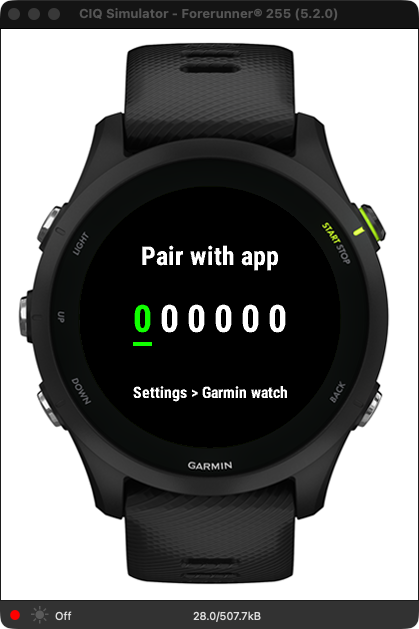
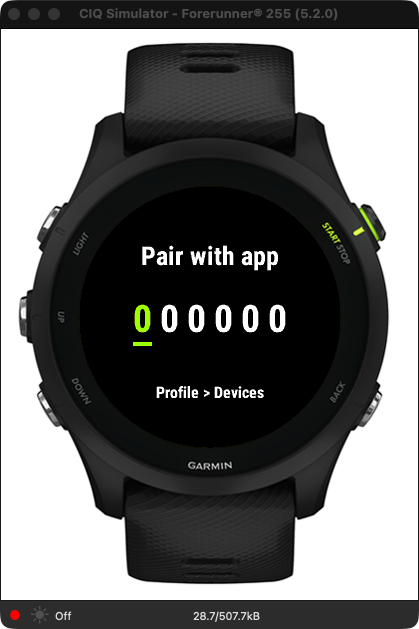
feat(garmin): Connect IQ Store package 1.0.0 with minimal permissions
- manifest: explicit app version 1.0.0 (first Store submission, own
  version line independent of the phone app SemVer)
- manifest: drop Sensor and UserProfile. The watch code never imports
  Toybox.Sensor or Toybox.UserProfile, so both listing justifications were
  untrue (App Review Guidelines 3c data minimisation, 4a accurate listing).
  Heart rate in the FIT comes from the native ActivityRecording session
  (Fit permission); confirm on the physical epix2 run (G-checklist)
- pairing hint pointed at "Settings > Garmin watch", which no longer
  exists in the phone app; now "Profile > Devices" / "Profil > Urzadzenia"
  (code lives in Profile > Devices & connections)
- listings PL/EN: requirements (PRO, phone app, Garmin Connect bridge),
  payment and refund disclosure, real permission list, data sent/not sent,
  support URL; screenshots refreshed with the new hint
- artifact.json: signed export 27/27 binaries, 16 device ids,
  sha e4722ac2, bound to a content digest of every build input
- contract test: manifest version == artifact, every permission maps to a
  used Toybox module, listings justify exactly the manifest permissions,
  pairing hint matches phone i18n labels

Backend contract since the 2026-08-19 artifact (vacation rest day, ramp
targets, bodyweight_loaded, distance sets) needs no watch change: rest
payload was already handled, targets arrive in s[] which the watch reads,
the t label is ignored, k stays weight_reps for bodyweight_loaded.

Changed region(s): [[0.3103, 0.6041, 0.6826, 0.6343], [0.3103, 0.4833, 0.3723, 0.5739], [0.4964, 0.9666, 0.6205, 0.9968]]

diff --git a/src/test/garmin-release-contract.test.ts b/src/test/garmin-release-contract.test.ts
@@ -1,0 +1,64 @@
+import { readFileSync } from 'node:fs';
+import { describe, expect, it } from 'vitest';
+
+// Connect IQ Store: uprawnienia z manifestu, uzasadnienia w listingu i wersja
+// paczki .iq muszą mówić to samo (App Review Guidelines 3c/4a: minimalizacja
+// danych i dokładny opis). Uprawnienie bez użycia modułu w kodzie = fałszywe
+// uzasadnienie w Store.
+const read = (path: string): string => readFileSync(path, 'utf8');
+const manifest = read('garmin/manifest.xml');
+const permissions = [...manifest.matchAll(/<iq:uses-permission id="([A-Za-z]+)"\/>/g)].map((m) => m[1]);
+const appVersion = manifest.match(/<iq:application[^>]*\sversion="(\d+\.\d+\.\d+)"/)?.[1];
+const monkeyC = ['Api', 'AppSettings', 'Brand', 'DayView', 'EventQueue', 'ExerciseView', 'PairView',
+  'SessionRecorder', 'SessionView', 'StrengthSaveApp', 'WorkoutState']
+  .map((name) => read(`garmin/source/${name}.mc`))
+  .join('\n');
+
+// Moduły Toybox objęte uprawnieniem (docs SDK 9.2.0, Manifest_and_Permissions).
+const MODULE_BY_PERMISSION: Record<string, RegExp> = {
+  Communications: /Toybox\.Communications|Communications\.makeWebRequest/,
+  Fit: /Toybox\.ActivityRecording|Toybox\.FitContributor/,
+  Sensor: /Toybox\.Sensor\b|Sensor\.setEnabledSensors|Sensor\.enableSensorEvents/,
+  UserProfile: /Toybox\.UserProfile|UserProfile\.getProfile/,
+};
+
+describe('Garmin Connect IQ release contract', () => {
+  it('declares an explicit SemVer app version that matches the recorded artifact', () => {
+    expect(appVersion).toMatch(/^\d+\.\d+\.\d+$/);
+    const artifact = JSON.parse(read('garmin/release/artifact.json')) as { appVersion?: string };
+    expect(artifact.appVersion).toBe(appVersion);
+  });
+
+  it('requests only permissions whose Toybox module the watch code actually uses', () => {
+    expect(permissions.length).toBeGreaterThan(0);
+    for (const permission of permissions) {
+      expect(MODULE_BY_PERMISSION[permission], `unknown permission ${permission}`).toBeDefined();
+      expect(monkeyC, `${permission} declared but unused`).toMatch(MODULE_BY_PERMISSION[permission]);
+    }
+  });
+
+  it('points the pairing screen at the real phone location of the pairing code', () => {
+    // Kod parowania żyje w Profil > Urządzenia i połączenia (Profile.tsx, sekcja devices).
+    // Recenzent Store zaczyna od tego ekranu, więc stara ścieżka "Ustawienia" = ślepy zaułek.
+    for (const [strings, locale] of [
+      ['garmin/resources/strings/strings.xml', 'src/i18n/locales/en.ts'],
+      ['garmin/resources-pol/strings/strings.xml', 'src/i18n/locales/pl.ts'],
+    ]) {
+      const hint = read(strings).match(/<string id="PairHint">([^<]+)<\/string>/)?.[1] ?? '';
+      const phone = read(locale);
+      const profile = phone.match(/'nav\.profile': '([^']+)'/)?.[1] ?? '';
+      const devices = phone.match(/'profile\.section\.devicesConnections': '([^']+)'/)?.[1] ?? '';
+      expect(profile.length).toBeGreaterThan(0);
+      expect(hint, strings).toBe(`${profile} &gt; ${devices.split(/ (?:i|&) /)[0]}`);
+    }
+  });
+
+  it('justifies exactly the manifest permissions in both Store listings', () => {
+    for (const listing of ['garmin/release/listing-pl.md', 'garmin/release/listing-en.md']) {
+      const text = read(listing);
+      const section = text.split(/^## (?:Uprawnienia|Permissions)$/m)[1]?.split(/^## /m)[0] ?? '';
+      const justified = [...section.matchAll(/^- \*\*([A-Za-z]+)\*\*/gm)].map((m) => m[1]);
+      expect(justified.sort(), listing).toEqual([...permissions].sort());
+    }
+  });
+});

diff --git a/garmin/release/listing-pl.md b/garmin/release/listing-pl.md
@@ -2,29 +2,35 @@
 
 ## Krótki opis
 
-Loguj trening siłowy z nadgarstka: plan dnia, szybki trening, timer przerw i zapis FIT.
+Loguj trening siłowy z nadgarstka: plan dnia, szybki trening, timer przerw i zapis aktywności w Garmin Connect.
 
 ## Opis
 
-Strength Save na Garminie jest samodzielnym klientem Twojego konta Strength Save. Po jednorazowym sparowaniu pobiera plan dnia, pozwala wykonać trening planowy albo szybki i synchronizuje jedną kanoniczną historię widoczną na webie, iOS i Androidzie.
+Strength Save na Garminie jest klientem Twojego konta Strength Save. Po jednorazowym sparowaniu pobiera plan dnia, pozwala wykonać trening z planu albo szybki trening z ostatnio wykonywanych ćwiczeń i wysyła serie do jednej historii treningów, widocznej w aplikacji na iPhone'a, Androida i w przeglądarce.
 
-- cele serii i cztery typy śledzenia ćwiczeń;
-- domyślne przerwy 90 s między seriami i 150 s między ćwiczeniami;
-- czas, liczba serii i tonaż sesji;
-- kilogramy lub funty w prezentacji, z zapisem kanonicznym w kg;
-- kolejka offline, jawny status synchronizacji, retry i bezpieczne odrzucenie sesji;
-- natywny zapis aktywności FIT z tętnem do Garmin Connect;
+Na zegarku:
+
+- cel kolejnej serii liczony na serwerze Strength Save z planu i historii treningów;
+- cztery typy serii: ciężar z powtórzeniami, czas, ciężar z dystansem i czasem, ćwiczenie wspomagane; każdą serię można oznaczyć jako rozgrzewkę;
+- przerwa między seriami od 30 s do 4 min (domyślnie 90 s) i między ćwiczeniami do 5 min albo wyłączona (domyślnie 150 s), z wibracją na koniec;
+- czas sesji, liczba serii i tonaż;
+- kilogramy albo funty na ekranie, zapis zawsze w kg;
+- dzień wolny w planie (także urlop ustawiony w aplikacji) otwiera menu z szybkim treningiem;
+- trening bez zasięgu: serie czekają na zegarku do wysyłki, a trening można odrzucić bez zapisu;
+- zapis aktywności siłowej z tętnem w Garmin Connect;
 - język polski i angielski.
 
-Jedno aktywne Strength Save PRO obejmuje web, iOS, Android, Apple Watch i Garmin. Zegarek nie ma osobnego zakupu ani paywalla. Zakup i przywracanie subskrypcji odbywają się wyłącznie w aplikacji iOS lub Android.
+Wymagania: konto Strength Save z aktywną subskrypcją Strength Save PRO, aplikacja Strength Save na iPhone'a lub Androida (kod parowania: Profil > Urządzenia i połączenia) oraz telefon połączony z zegarkiem przez aplikację Garmin Connect, bo zegarek pobiera plan i wysyła serie przez telefon.
+
+Płatność: zegarek nie ma własnego zakupu. Bez aktywnego Strength Save PRO zegarek pokazuje komunikat o wymaganym PRO i nie pobiera planu. Subskrypcję (miesięczną albo roczną, odnawianą automatycznie) kupuje się i przywraca wyłącznie w aplikacji na iOS lub Androida. Rozliczenia, anulowanie i zwroty obsługuje App Store albo Google Play na swoich zasadach (szczegóły: https://strengthsave.app/terms). Jedna subskrypcja obejmuje wszystkie aplikacje Strength Save.
 
 ## Uprawnienia
 
-- **Communications** — szyfrowane pobranie planu i wysłanie paczki zdarzeń do backendu Strength Save.
-- **Fit** — rozpoczęcie i zapis ukończonego treningu jako aktywność FIT w Garmin Connect.
-- **Sensor** — odczyt tętna podczas aktywnej sesji treningowej do pliku FIT.
-- **UserProfile** — użycie ustawień profilu i jednostek potrzebnych do poprawnej prezentacji oraz rekordu aktywności.
+- **Communications**: pobranie planu dnia i wysłanie zapisanych serii do serwera Strength Save przez HTTPS.
+- **Fit**: nagranie treningu jako aktywności siłowej i zapis w Garmin Connect (albo odrzucenie nagrania na życzenie).
 
 ## Prywatność
 
-Zegarek przechowuje lokalnie minimalny, odwoływalny token urządzenia, plan dnia i niewysłane zdarzenia. Nie przechowuje hasła ani tokenu Firebase. Dane treningowe trafiają do konta użytkownika dopiero po trwałym ACK backendu. Polityka prywatności: https://strengthsave.app/privacy
+Zegarek przechowuje lokalnie odwoływalny token urządzenia, plan dnia i niewysłane serie. Nie przechowuje hasła ani tokenu logowania do konta. Do serwera Strength Save trafiają serie (ćwiczenie, powtórzenia, ciężar, czas, dystans, odciążenie, rozgrzewka), godziny sesji, identyfikator urządzenia i stan synchronizacji. Tętno i plik FIT zostają w Garmin Connect, Strength Save ich nie otrzymuje. Polityka prywatności: https://strengthsave.app/privacy
+
+Wsparcie: https://strengthsave.app/support

diff --git a/garmin/release/listing-en.md b/garmin/release/listing-en.md
@@ -2,29 +2,35 @@
 
 ## Short description
 
-Log strength workouts from your wrist with today's plan, quick workouts, rest timers, and FIT recording.
+Log strength workouts from your wrist with today's plan, quick workouts, rest timers, and activity recording in Garmin Connect.
 
 ## Description
 
-Strength Save for Garmin is a standalone client for your Strength Save account. After one-time pairing, it downloads today's plan, supports planned or quick workouts, and syncs one canonical history visible on web, iOS, and Android.
+Strength Save for Garmin is a client for your Strength Save account. After one-time pairing it downloads today's plan, lets you do the planned workout or a quick workout built from recently performed exercises, and sends your sets to one workout history that you see in the iPhone, Android, and web apps.
 
-- set targets and four exercise tracking types;
-- default 90-second between-set and 150-second between-exercise rest timers;
+On the watch:
+
+- the next set target is calculated on the Strength Save server from your plan and workout history;
+- four set types: weight and reps, duration, weight with distance and duration, assisted; any set can be marked as a warm-up;
+- rest between sets from 30 s to 4 min (default 90 s) and between exercises up to 5 min or off (default 150 s), with a vibration when it ends;
 - session duration, completed sets, and training volume;
-- kilograms or pounds for display, with canonical storage in kg;
-- offline queue, explicit sync state, retry, and safe session discard;
-- native FIT activity with heart rate in Garmin Connect;
+- kilograms or pounds on screen, always stored in kg;
+- a rest day in your plan (including a vacation set in the app) opens a menu with a quick workout;
+- training without a connection: sets wait on the watch until they are sent, and a workout can be discarded without saving;
+- strength activity with heart rate saved to Garmin Connect;
 - Polish and English.
 
-One active Strength Save PRO entitlement covers web, iOS, Android, Apple Watch, and Garmin. The watch has no separate purchase or paywall. Purchases and restores are available only in the iOS or Android app.
+Requirements: a Strength Save account with an active Strength Save PRO subscription, the Strength Save app for iPhone or Android (pairing code: Profile > Devices & connections), and a phone connected to the watch through the Garmin Connect app, because the watch downloads the plan and sends sets through the phone.
+
+Payment: the watch has no purchase of its own. Without an active Strength Save PRO the watch shows a PRO required message and does not download the plan. The subscription (monthly or yearly, auto-renewing) is bought and restored only in the iOS or Android app. Billing, cancellation, and refunds are handled by the App Store or Google Play under their own terms (details: https://strengthsave.app/terms). One subscription covers every Strength Save app.
 
 ## Permissions
 
-- **Communications** — encrypted plan download and batched event upload to the Strength Save backend.
-- **Fit** — start and save a completed workout as a FIT activity in Garmin Connect.
-- **Sensor** — read heart rate during an active workout for the FIT record.
-- **UserProfile** — use profile and unit preferences needed for correct display and activity recording.
+- **Communications**: download today's plan and send logged sets to the Strength Save server over HTTPS.
+- **Fit**: record the workout as a strength activity and save it to Garmin Connect (or discard the recording on request).
 
 ## Privacy
 
-The watch stores only a minimal revocable device token, today's plan, and unsent events locally. It never stores a password or Firebase token. Workout data reaches the user's account only after durable backend acknowledgement. Privacy policy: https://strengthsave.app/privacy
+The watch stores a revocable device token, today's plan, and unsent sets locally. It never stores a password or an account sign-in token. The Strength Save server receives the sets (exercise, reps, weight, duration, distance, assistance, warm-up), session times, a device identifier, and sync state. Heart rate and the FIT file stay in Garmin Connect; Strength Save does not receive them. Privacy policy: https://strengthsave.app/privacy
+
+Support: https://strengthsave.app/support
